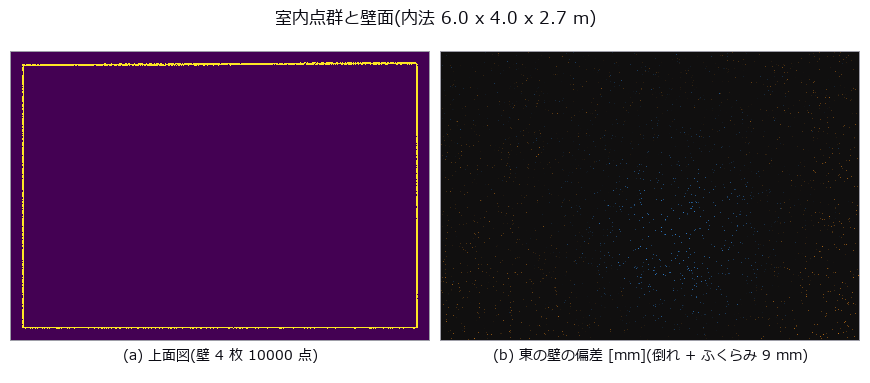
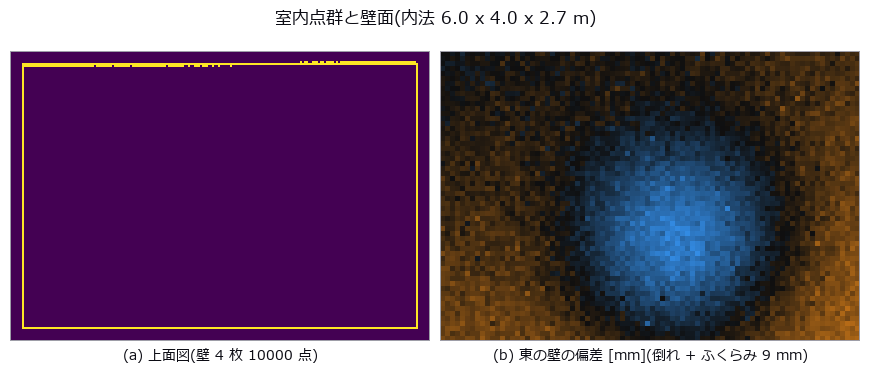
auto: poc_bump_coplanarity.py 編集前 (2026-09-08 06:02)

diff --git a/examples/poc_asbuilt_wall_deviation.py b/examples/poc_asbuilt_wall_deviation.py
@@ -266,12 +266,13 @@ def section_zero_point() -> dict:
     # 場面の図: 上面図 + 東壁の偏差マップ
     P = room["P"]
     plan = _bin_mean(P[:, 0], P[:, 1], np.ones(len(P)), (-0.2, RW + 0.2),
-                     (-0.2, RD + 0.2), 420, 290)
-    ew = room["walls"]["east"]
+                     (-0.2, RD + 0.2), 210, 145, up=2)
+    # 偏差マップは点を多めに撒いた壁で描く(2500 点だと格子が埋まらない)
+    ew = make_wall("east", 40000, np.random.default_rng(SEED))
     f = fit_wall(ew["P"], seed=3)
     res = (ew["P"] - f["point"]) @ f["normal"]
     emap = _bin_mean(ew["eta"], ew["zeta"], res * 1e3, (-RD / 2, RD / 2),
-                     (-RH / 2, RH / 2), 420, 290)
+                     (-RH / 2, RH / 2), 84, 58, up=5)
     figs.save_grid("scene", [plan, emap],
                    ["上面図(壁 4 枚 %d 点)" % len(P),
                     "東の壁の偏差 [mm](倒れ + ふくらみ %.0f mm)" % (1e3 * BULGE_A)],
@@ -520,7 +521,7 @@ def section_outliers() -> dict:
     for f in (fl, frb):
         r = (w["P"] - f["point"]) @ f["normal"]
         maps.append(_bin_mean(w["eta"], w["zeta"], np.clip(r, -0.25, 0.25) * 1e3,
-                              (-RD / 2, RD / 2), (-RH / 2, RH / 2), 420, 290))
+                              (-RD / 2, RD / 2), (-RH / 2, RH / 2), 84, 58, up=5))
     figs.save_grid("outlier_maps", maps,
                    ["最小二乗の残差 [mm](面が回った)",
                     "RANSAC の残差 [mm](棚だけ残る)"],
@@ -631,7 +632,7 @@ def section_bulge() -> dict:
         f = fit_wall(w["P"], seed=3)
         r = (w["P"] - f["point"]) @ f["normal"]
         maps.append(_bin_mean(w["eta"], w["zeta"], r * 1e3, (-RD / 2, RD / 2),
-                              (-RH / 2, RH / 2), 120, 84))
+                              (-RH / 2, RH / 2), 84, 58, up=4))
         caps.append("σ = %.2f m" % bs)
     figs.save_grid("bulge_maps", maps, caps,
                    title="東の壁の偏差マップ [mm] —— 同じ振幅 %.0f mm のふくらみ"
